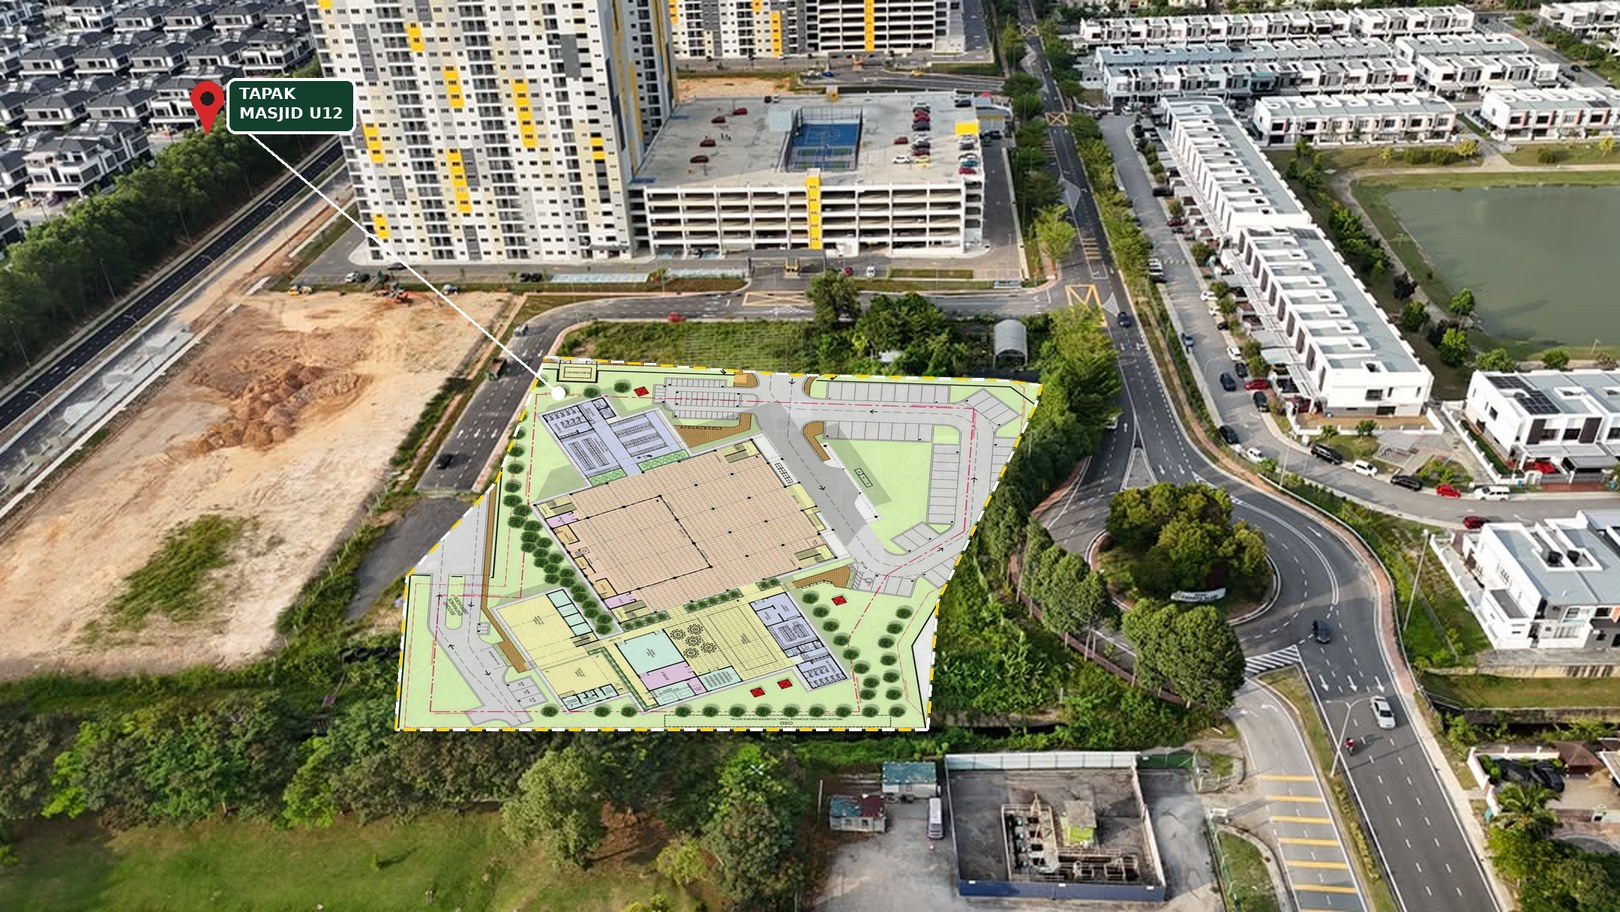
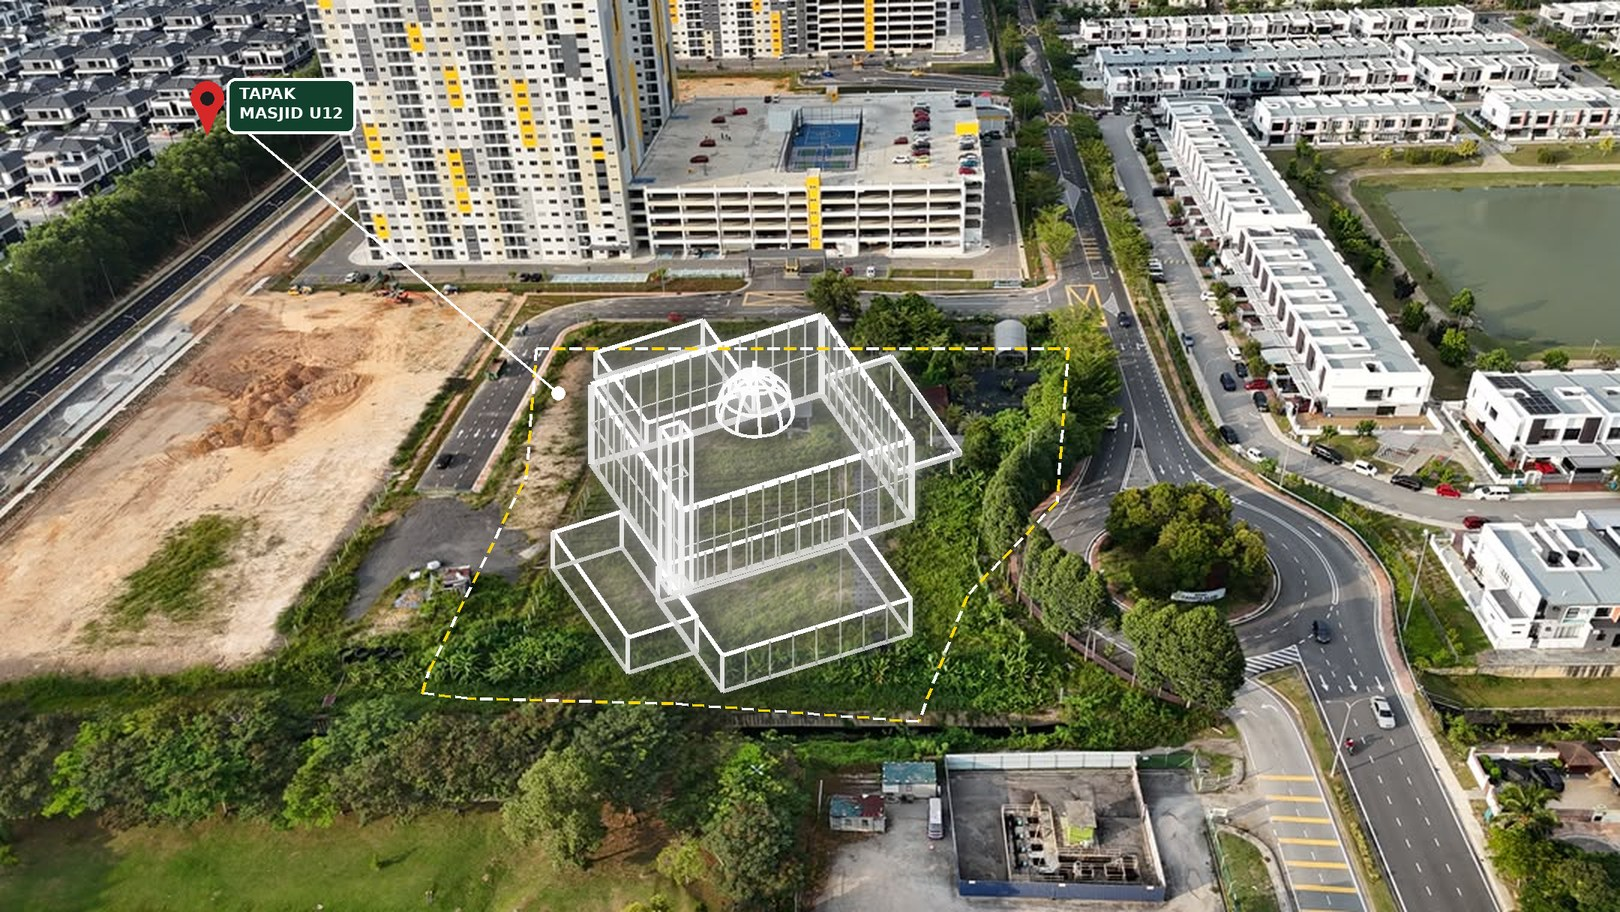
Kembalikan model masjid wireframe pada foto lokasi, diputar 180 darjah
Claude-Session: https://claude.ai/code/session_019rDfzMse4bgd1cjAXrs2L3

Changed region(s): [[0.216, 0.307, 0.6481, 0.8289]]

diff --git a/index.html b/index.html
@@ -379,18 +379,18 @@ footer h4{margin:0 0 12px;font-size:13px;letter-spacing:.14em;text-transform:upp
   <div class="wrap">
     <p class="kicker" data-en="Location">Lokasi</p>
     <h2 data-en="Construction Site Location">Lokasi Tapak Pembinaan</h2>
-    <p class="intro" data-en="The mosque site in Cahaya Alam, Section U12, Shah Alam, seen from the air. On the right, the proposed site plan is superimposed on the actual site.">Tapak masjid di Cahaya Alam, Seksyen U12, Shah Alam, dilihat dari udara. Di sebelah kanan, pelan tapak cadangan diletakkan di atas tapak sebenar.</p>
+    <p class="intro" data-en="The mosque site in Cahaya Alam, Section U12, Shah Alam, seen from the air. On the right, the proposed mosque is shown superimposed on the actual site.">Tapak masjid di Cahaya Alam, Seksyen U12, Shah Alam, dilihat dari udara. Di sebelah kanan, masjid cadangan dipaparkan di atas tapak sebenar.</p>
     <div class="sitepair">
       <figure class="shot">
         <button type="button" data-full="img/tapak-udara.jpg" data-cap="Tapak masjid sedia ada (pandangan udara)" data-en-cap="The existing mosque site (aerial view)"><img src="img/tapak-udara.jpg" alt="Pandangan udara tapak masjid U12 yang masih kosong, dikelilingi jalan dan kawasan perumahan" data-en-alt="Aerial view of the still-vacant Masjid U12 site, surrounded by roads and housing" width="1080" height="608" loading="lazy"></button>
         <figcaption data-en="The existing site (aerial view)">Tapak sedia ada (pandangan udara)</figcaption>
       </figure>
       <figure class="shot">
-        <button type="button" data-full="img/lokasi-tapak.jpg" data-cap="Pelan tapak cadangan diletakkan di atas tapak sebenar" data-en-cap="The proposed site plan superimposed on the actual site"><img src="img/lokasi-tapak.jpg" alt="Pelan tapak cadangan masjid diletakkan di atas gambar udara tapak sebenar, dengan sempadan tapak bergaris putus-putus" data-en-alt="The proposed mosque site plan superimposed on the aerial photo of the actual site, with the site boundary in dashed lines" width="1080" height="608" loading="lazy"></button>
-        <figcaption data-en="Proposed site plan superimposed on the site">Pelan tapak cadangan di atas tapak</figcaption>
+        <button type="button" data-full="img/lokasi-tapak.jpg" data-cap="Visualisasi masjid cadangan di atas tapak sebenar" data-en-cap="Visualisation of the proposed mosque on the actual site"><img src="img/lokasi-tapak.jpg" alt="Model masjid cadangan dilapiskan pada gambar udara tapak sebenar, dengan sempadan tapak bergaris putus-putus" data-en-alt="The proposed mosque modelled over the aerial photo of the actual site, with the site boundary in dashed lines" width="1080" height="608" loading="lazy"></button>
+        <figcaption data-en="The proposed mosque on the site (visualisation)">Masjid cadangan di atas tapak (visualisasi)</figcaption>
       </figure>
     </div>
-    <p class="note" data-en="The superimposed image is indicative only. Its position, scale and perspective are approximate and do not replace the survey plan or the plans approved by the authorities.">Imej gabungan ini hanya sebagai gambaran. Kedudukan, skala dan perspektifnya adalah anggaran dan tidak menggantikan pelan ukur atau pelan yang diluluskan pihak berkuasa.</p>
+    <p class="note" data-en="The visualisation is indicative only. The building is a simplified massing model based on the proposed site plan; its position, scale and perspective are approximate and do not replace the survey plan or the plans approved by the authorities.">Visualisasi ini hanya sebagai gambaran. Bangunan ialah model ringkas berdasarkan pelan tapak cadangan; kedudukan, skala dan perspektifnya adalah anggaran dan tidak menggantikan pelan ukur atau pelan yang diluluskan pihak berkuasa.</p>
     <div class="coord">
       <div class="cico"><svg width="28" height="28" viewBox="0 0 24 24" fill="none" stroke="currentColor" stroke-width="1.8" stroke-linecap="round" stroke-linejoin="round" aria-hidden="true"><path d="M12 22s7-6.2 7-12a7 7 0 0 0-14 0c0 5.8 7 12 7 12z"/><circle cx="12" cy="10" r="2.6"/></svg></div>
       <dl>
